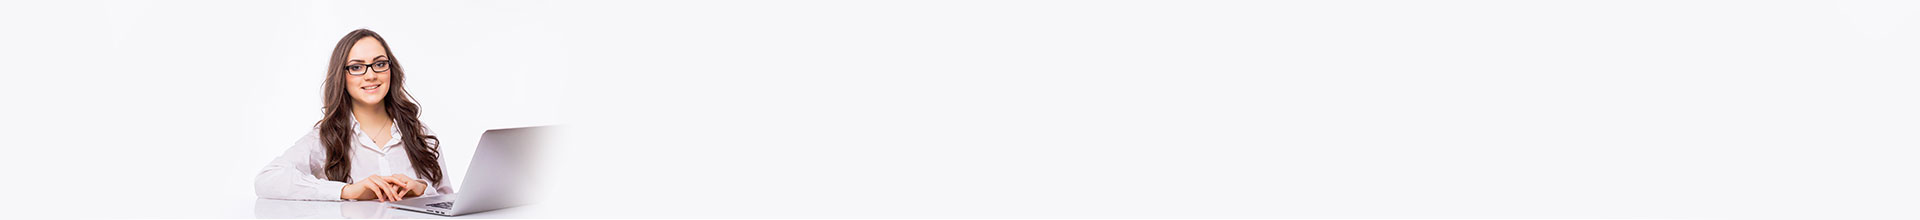
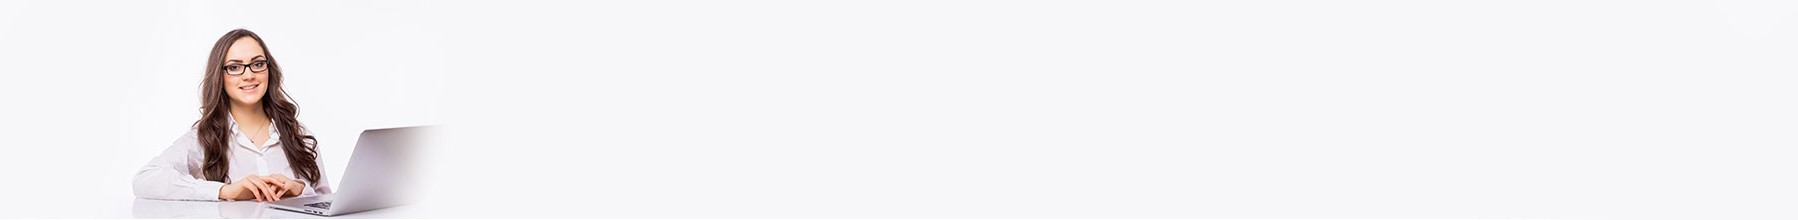
working

Changed region(s): [[0.0623, 0.1364, 0.3115, 1.0]]

diff --git a/index.css b/index.css
@@ -324,7 +324,7 @@ nav {
 .banner1 {
   background-image: url("./images/accelerate_img.jpg");
   background-repeat: no-repeat;
-  background-size: cover;
+  background-size: contain;
   display: flex;
   justify-content: center;
   align-items: center;
@@ -336,8 +336,9 @@ nav {
   font-family: "Noto Serif Todhri", serif;
   font-weight: 500;
   max-width: 80rem;
-  padding: 6rem 0;
+  padding: 5rem 1rem;
   align-content: center;
+  justify-self: center;
   text-align: center;
   margin-left: 20rem;
   color: #08549f;
@@ -529,7 +530,7 @@ footer .terms {
   }
 
   .banner1 h4 {
-    padding: 2.5rem 0;
+    padding: 2.5rem 1rem;
   }
 
   .content {
